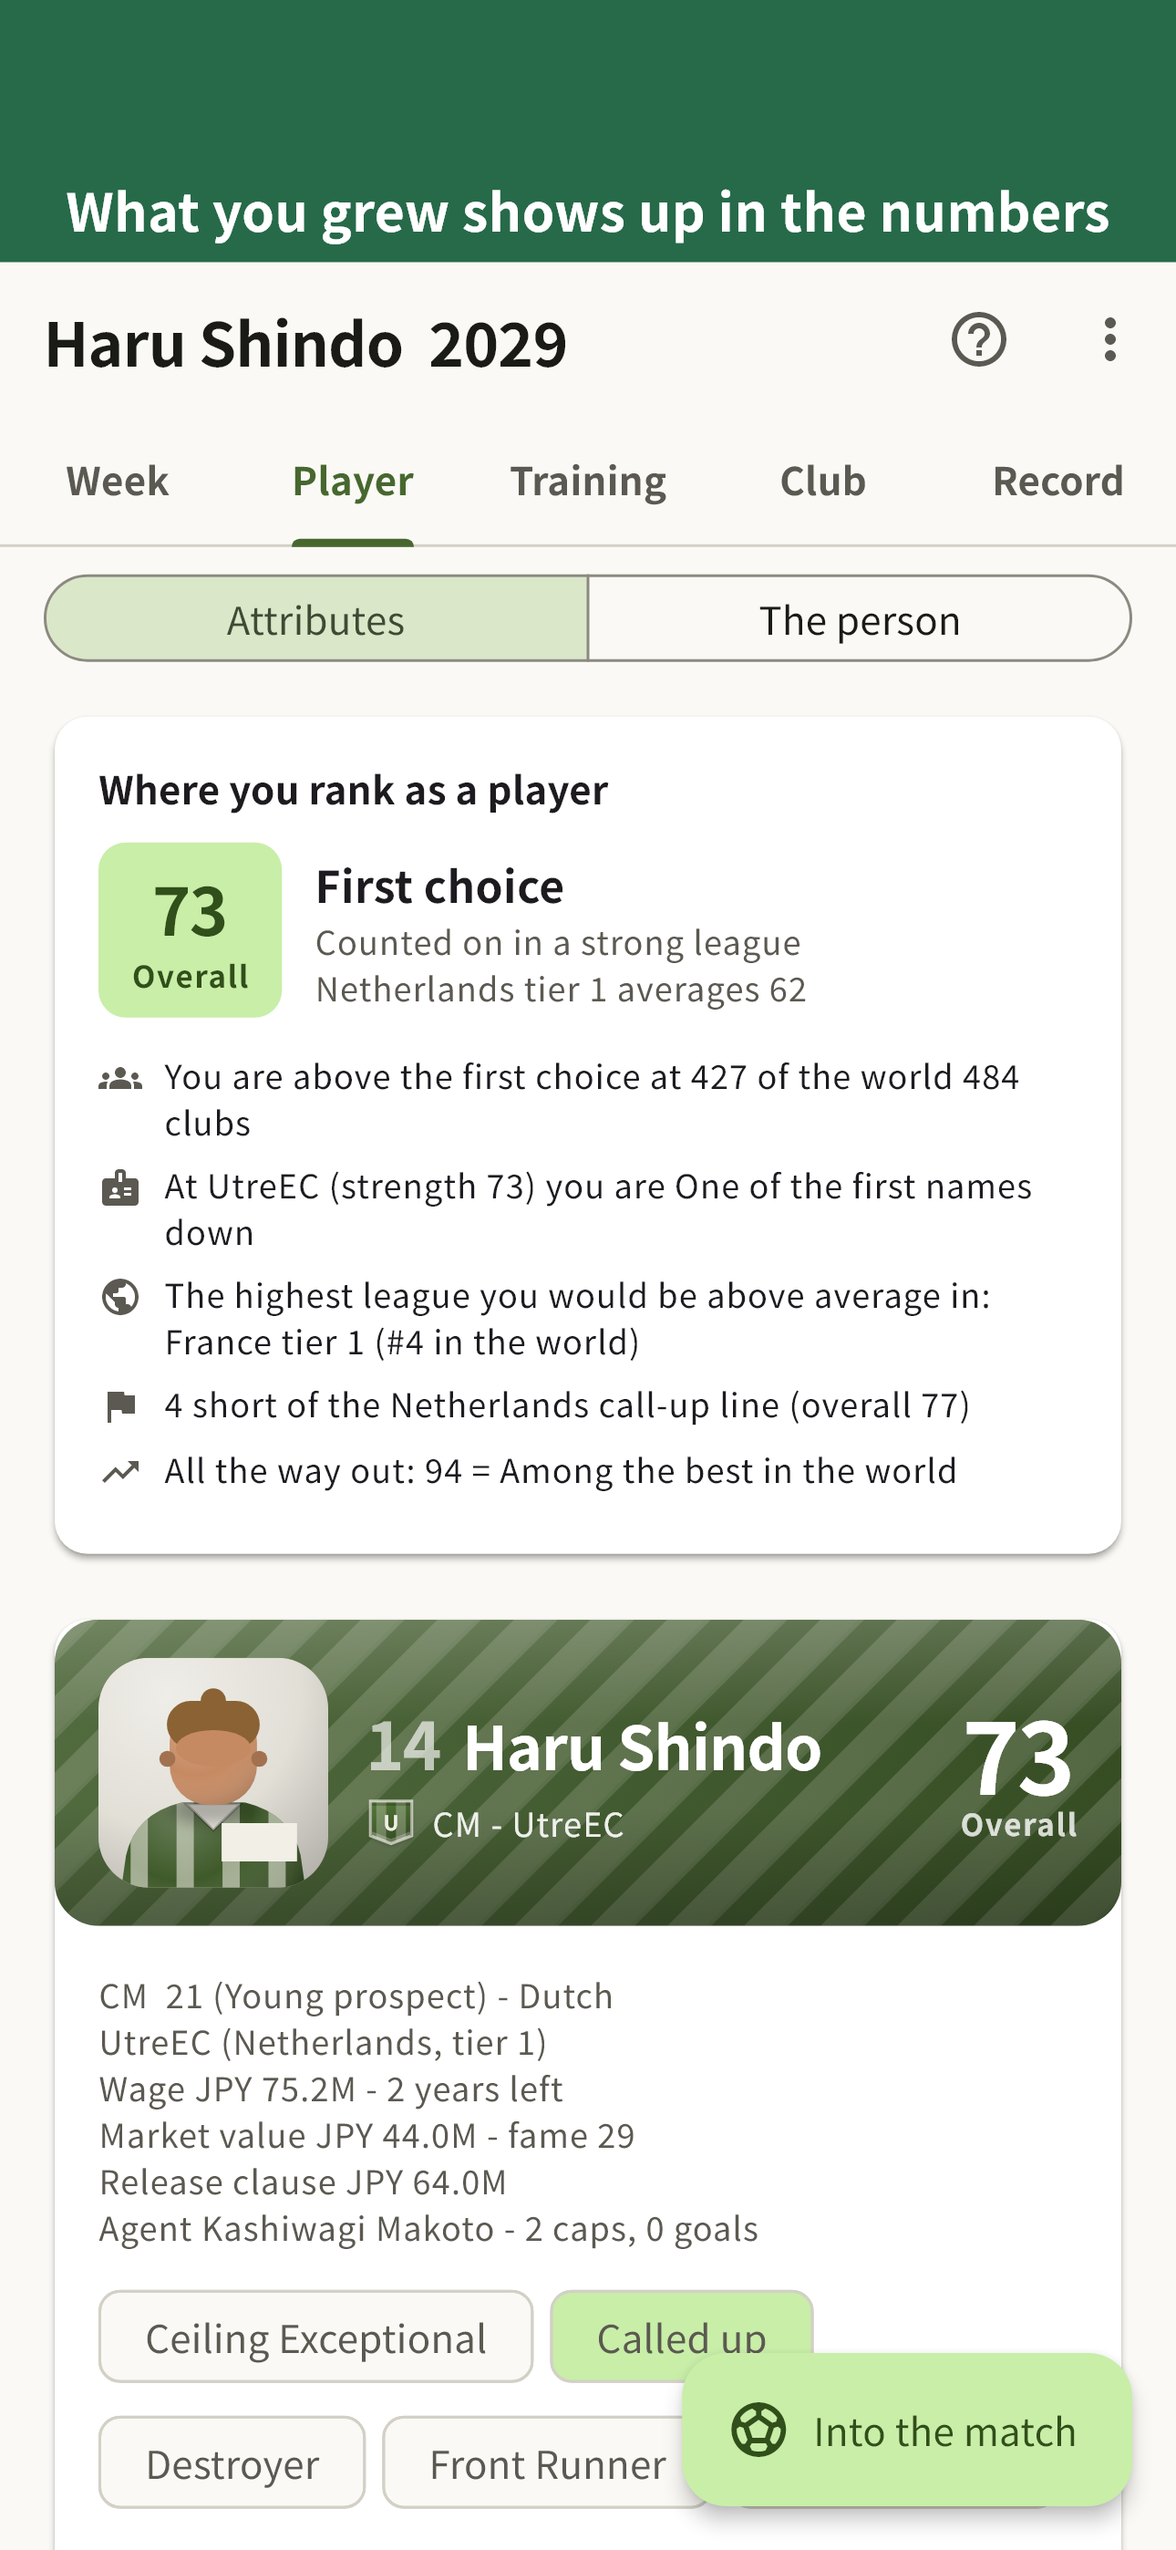
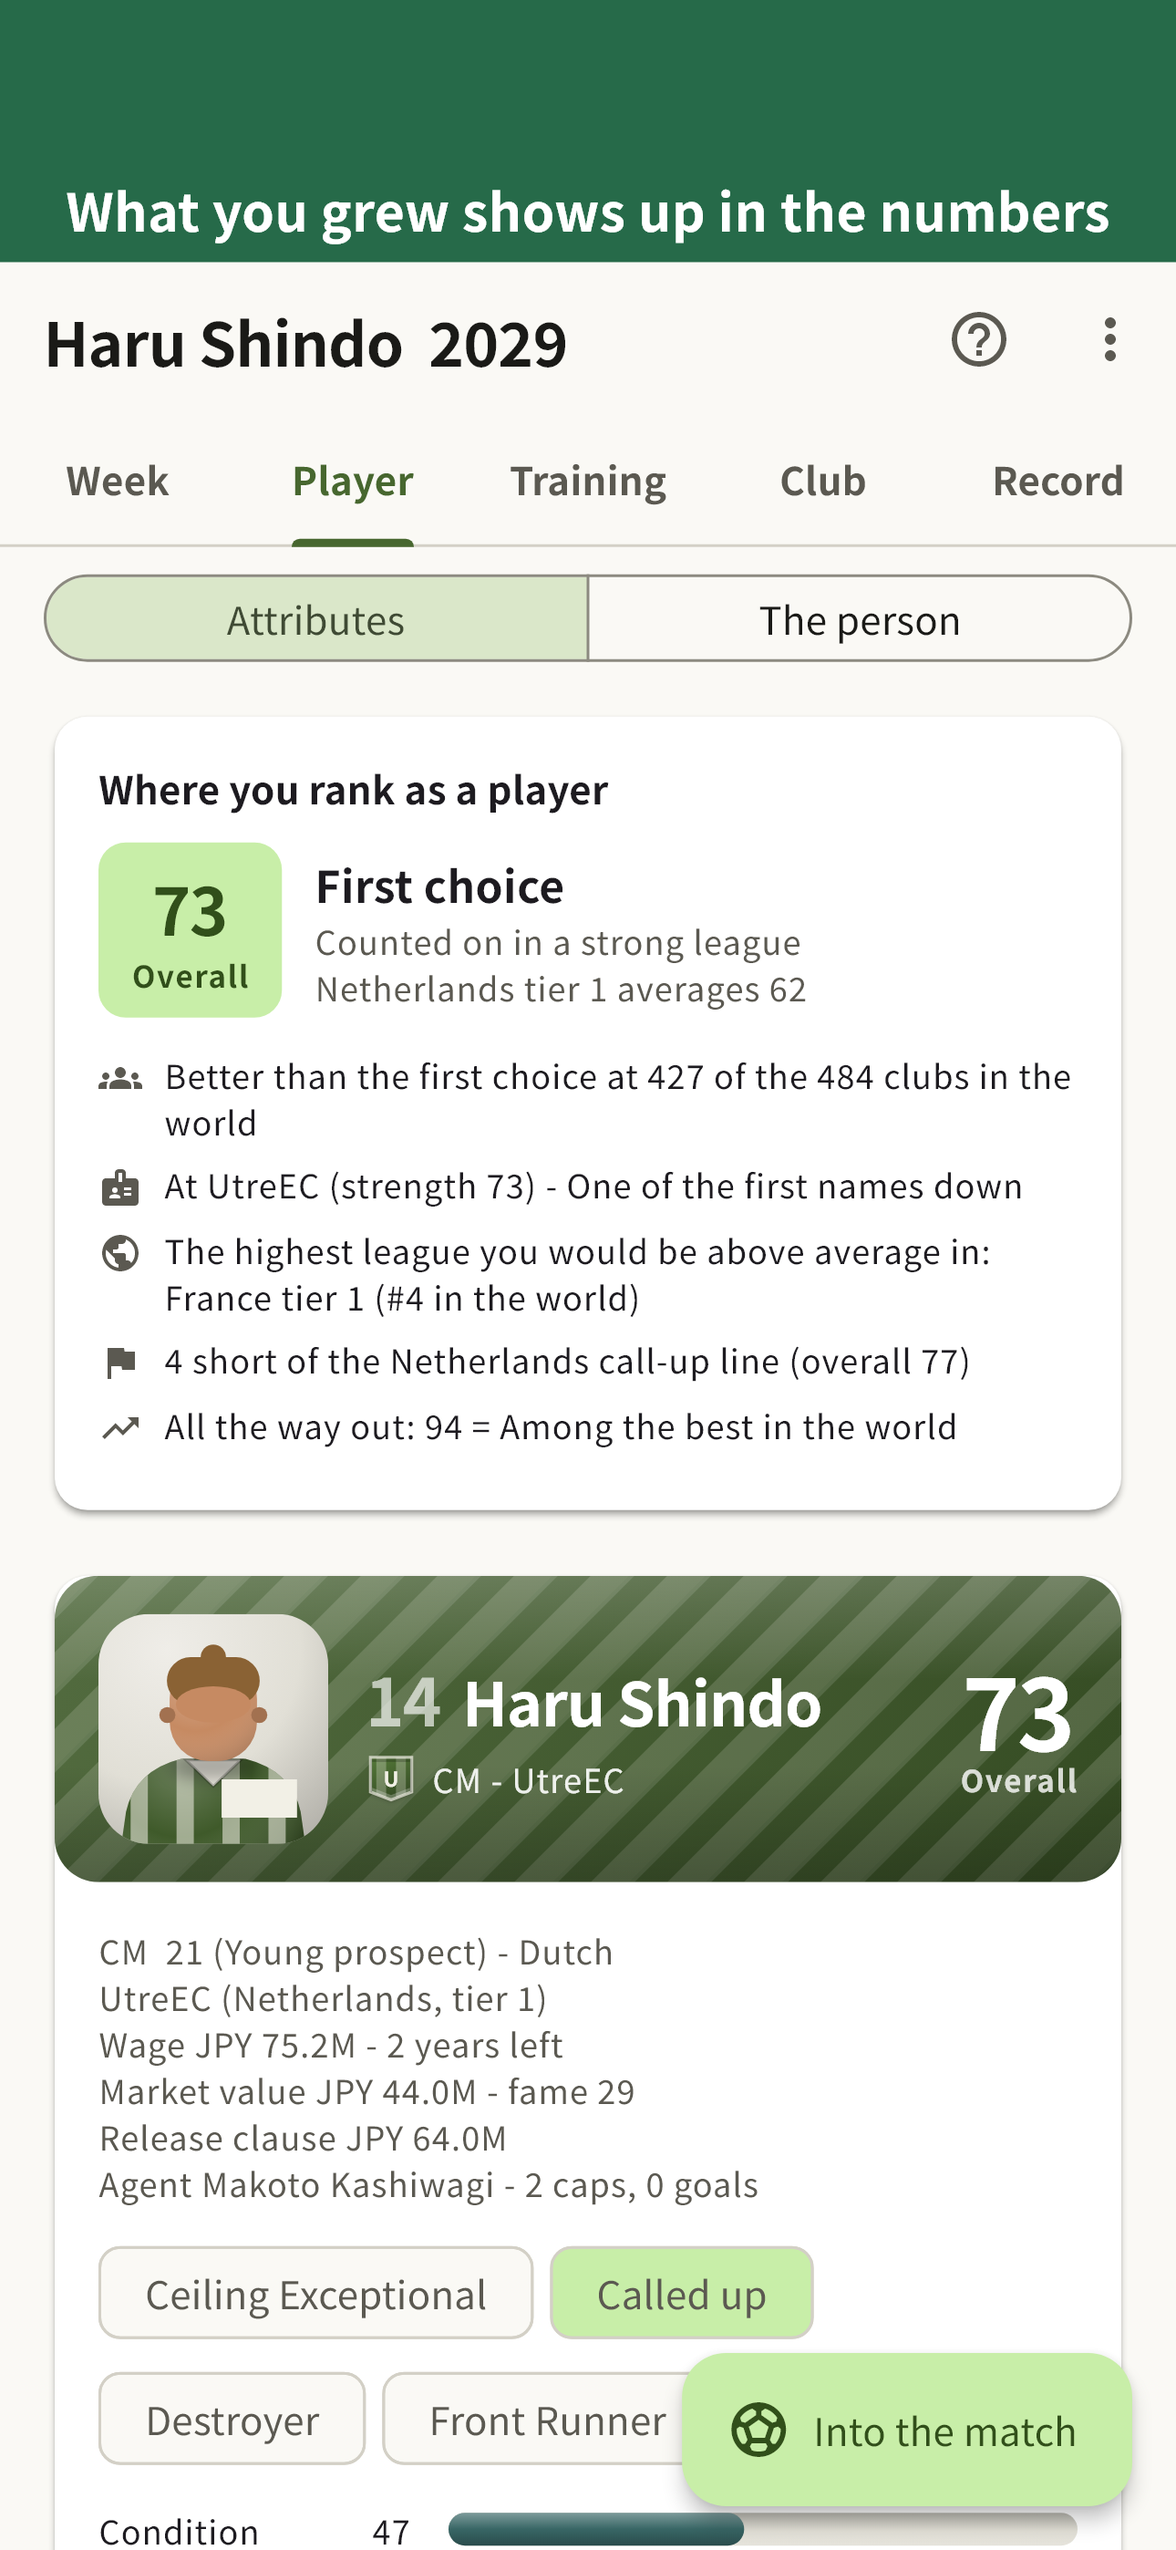
soccer-career: 英語の画面の壊れを15か所直す（1.2.0+7）
貼る前の掲載画像を1枚ずつ開いて見つけた。どれも日本語の画面では
起きないもので、analyze も既存のテストも通っていた。

- 全角の記号が英語の画面に出ていた（11か所）。文字列をつないだ
  ところは tr() を通らないので「／」「（）」「「」」がそのまま出る。
  lang_test に見張りを足したら、自分で見つけた3か所の他に8か所出た
- 文を文の中に埋めていた。standingIn は独立した文を返すので
  「you are Too good for this club. You could go higher」になっていた
- 「of the world 484 clubs」、掲載画像の見出し「What you give this
  week to」（to で終わって文にならない）
- 代理人3人だけ姓が先（Kashiwagi Makoto → Makoto Kashiwagi）
- 札が2行で枠からはみ出す（This country, and the world → Country and world）。
  札を変えたら道具3つの探す字も変える（これで4回目）

ビルド6は TestFlight に上げたあとなので 1.2.0+7 を作り直す。

Changed region(s): [[0.031, 0.4045, 0.9612, 1.0]]

diff --git a/projects/soccer-career/lib/ui/screens/hub_screen.dart b/projects/soccer-career/lib/ui/screens/hub_screen.dart
@@ -1250,7 +1250,7 @@ class _ClubTab extends StatelessWidget {
   Widget build(BuildContext context) => _Sectioned(
     storageId: 'section-club',
     // 見出しで割っていた境目を、そのまま札にした。
-    labels: [tr('立ち位置', 'Where you stand'), tr('この国と、世界', 'This country, and the world')],
+    labels: [tr('立ち位置', 'Where you stand'), tr('この国と、世界', 'Country and world')],
     sections: [
       ListView(
         key: const PageStorageKey('tab-club'),
@@ -2141,7 +2141,8 @@ class _SupportCard extends StatelessWidget {
                 Align(
                   alignment: Alignment.centerLeft,
                   child: Text(
-                    '${kind.label}（${kind.description}）',
+                    tr('${kind.label}（${kind.description}）',
+                        '${kind.label} (${kind.description})'),
                     style: theme.textTheme.labelMedium,
                   ),
                 ),
@@ -3683,13 +3684,13 @@ class _LevelCard extends StatelessWidget {
               icon: Icons.groups,
               text:
                   tr('世界${grade.totalClubs}クラブのうち'
-                  '${grade.starterClubs}クラブの主力を上回っている', 'You are above the first choice at ${grade.starterClubs} of the world ${grade.totalClubs} clubs'),
+                  '${grade.starterClubs}クラブの主力を上回っている', 'Better than the first choice at ${grade.starterClubs} of the ${grade.totalClubs} clubs in the world'),
             ),
             _LevelLine(
               icon: Icons.badge,
               text:
                   tr('${state.club.name}（強さ ${state.club.strength}）では'
-                  '${Ranking.standingIn(player.overall, state.club)}', 'At ${state.club.name} (strength ${state.club.strength}) you are ${Ranking.standingIn(player.overall, state.club)}'),
+                  '${Ranking.standingIn(player.overall, state.club)}', 'At ${state.club.name} (strength ${state.club.strength}) - ${Ranking.standingIn(player.overall, state.club)}'),
             ),
             _LevelLine(
               icon: Icons.public,
@@ -5147,7 +5148,8 @@ class _InjuryCard extends StatelessWidget {
           crossAxisAlignment: CrossAxisAlignment.start,
           children: [
             Text(
-              '${injury.name}（${injury.severity.label}）',
+              tr('${injury.name}（${injury.severity.label}）',
+                  '${injury.name} (${injury.severity.label})'),
               style: theme.textTheme.titleSmall?.copyWith(
                 color: theme.colorScheme.onErrorContainer,
               ),

diff --git a/projects/soccer-career/test/lang_test.dart b/projects/soccer-career/test/lang_test.dart
@@ -434,4 +434,41 @@ void main() {
       );
     });
   });
+
+  group('英語に全角の記号を混ぜない', () {
+    // **区切りの記号も訳す。** `parts.join(' ／ ')` のように文字列を
+    // つないだところは tr() を通らないので、**英語の画面に全角のまま出る**。
+    // `_ja` はかな・漢字しか見ないので、記号だけの文字列は素通りしていた
+    // ——「目標 20 to go ／ Goals 10 to go」「Physical（...）」が
+    // **英語の掲載画像に写っていて、そこで初めて見つかった**（2026-11-22）。
+    //
+    // `、` `。` `／` `（` `）` は `_ja` の範囲（U+3040〜U+30FF、漢字）の
+    // 外にある。日本語の文の中なら正しいので、**かな・漢字を含む文は見ない**。
+    final zenkaku = RegExp(r'[（）／、。「」〜：；！？％]');
+
+    test('訳し終えたファイルに、英語側の全角記号が無い', () {
+      final leaks = <String>[];
+      for (final path in translated) {
+        final s = File(path).readAsStringSync();
+        for (final run in _runs(s)) {
+          final lit = s.substring(run.$1, run.$2);
+          if (!zenkaku.hasMatch(lit)) continue;
+          // かな・漢字があるなら日本語の文。全角で正しい。
+          if (_ja.hasMatch(lit)) continue;
+          // tr( / Say( の直後は日本語側の引数。
+          final before = s.substring(0, run.$1).trimRight();
+          if (before.endsWith('tr(') || before.endsWith('Say(')) continue;
+          final line = s.substring(0, run.$1).split('\n').length;
+          leaks.add('$path:$line  ${lit.replaceAll('\n', ' ')}');
+        }
+      }
+      expect(
+        leaks,
+        isEmpty,
+        reason:
+            '英語の画面に全角の記号が出る:\n${leaks.join('\n')}\n'
+            "区切りも tr(' ／ ', ' / ') のように訳すこと。",
+      );
+    });
+  });
 }

diff --git a/projects/soccer-career/lib/game/match_brief.dart b/projects/soccer-career/lib/game/match_brief.dart
@@ -70,7 +70,11 @@ class MatchBrief {
       // 1枚に収める。長い注釈はクラブタブのカードに任せる。
       lines.add(BriefLine(
         tr('目標', 'Targets'),
-        parts.isEmpty ? tr('3つとも届いている', 'All three are within reach') : parts.join(' ／ '),
+        parts.isEmpty
+            ? tr('3つとも届いている', 'All three are within reach')
+            // **区切りの記号も訳す。** 全角の「／」を英語の画面に
+            // 出したままにしていた（2026-11-22、掲載画像で見つけた）。
+            : parts.join(tr(' ／ ', ' / ')),
         urgent: state.objectiveReach != null,
       ));
     }
@@ -82,7 +86,9 @@ class MatchBrief {
       final short = promise.shortfall(state.seasonStats);
       lines.add(BriefLine(
         tr('約束', 'Promise'),
-        short == null ? tr('${promise.label} — 果たした', '${promise.label} - kept') : '${promise.label}（$short）',
+        short == null
+            ? tr('${promise.label} — 果たした', '${promise.label} - kept')
+            : tr('${promise.label}（$short）', '${promise.label} ($short)'),
         urgent: state.promiseReach != null,
       ));
     }
@@ -102,7 +108,9 @@ class MatchBrief {
 
       final opponent = state.opponentFor(state.matchday);
       final style = ClubStyle.of(opponent);
-      lines.add(BriefLine(tr('相手', 'Opponent'), '${style.label}（${style.description}）'));
+      lines.add(BriefLine(tr('相手', 'Opponent'),
+          tr('${style.label}（${style.description}）',
+              '${style.label} (${style.description})')));
 
       // 自分が出るぶん、クラブがどれだけ強くなるか。判定と同じ式を読む。
       // 1 未満なら出さない（「+0」は情報ではない）。

diff --git a/projects/soccer-career/lib/ui/screens/guide_screen.dart b/projects/soccer-career/lib/ui/screens/guide_screen.dart
@@ -928,7 +928,8 @@ Widget _traitList(BuildContext context) {
       const SizedBox(height: 8),
       _list(context, [
         for (final trait in Trait.strengths)
-          (trait.label, '${trait.description}（${trait.effects.join('、')}）'),
+          (trait.label, tr('${trait.description}（${trait.effects.join('、')}）',
+              '${trait.description} (${trait.effects.join(', ')})')),
       ]),
       const SizedBox(height: 8),
       Text(
@@ -940,7 +941,8 @@ Widget _traitList(BuildContext context) {
       const SizedBox(height: 8),
       _list(context, [
         for (final trait in Trait.flaws)
-          (trait.label, '${trait.description}（${trait.effects.join('、')}）'),
+          (trait.label, tr('${trait.description}（${trait.effects.join('、')}）',
+              '${trait.description} (${trait.effects.join(', ')})')),
       ]),
       const SizedBox(height: 8),
       Text(tr('稀（${Trait.rares.length}種）', 'Rare (${Trait.rares.length})'), style: theme.textTheme.labelLarge),
@@ -958,7 +960,8 @@ Widget _traitList(BuildContext context) {
         for (final trait in Trait.rares)
           (
             trait.flaw ? tr('${trait.label}（欠点）', '${trait.label} (flaw)') : trait.label,
-            '${trait.description}（${trait.effects.join('、')}）',
+            tr('${trait.description}（${trait.effects.join('、')}）',
+                '${trait.description} (${trait.effects.join(', ')})'),
           ),
       ]),
     ],

diff --git a/projects/soccer-career/lib/models/agent.dart b/projects/soccer-career/lib/models/agent.dart
@@ -49,7 +49,7 @@ class Agent {
 
   /// 全員架空。
   static const List<Agent> pool = [
-    Agent(name: Say('柏木 誠', 'Kashiwagi Makoto'), style: Say('堅実', 'Steady'), negotiation: 3, reach: 2, feePercent: 5),
+    Agent(name: Say('柏木 誠', 'Makoto Kashiwagi'), style: Say('堅実', 'Steady'), negotiation: 3, reach: 2, feePercent: 5),
     Agent(
       name: Say('ヴィクトル・ラング', 'Viktor Lang'),
       style: Say('強気', 'Pushy'),
@@ -57,7 +57,7 @@ class Agent {
       reach: 4,
       feePercent: 12,
     ),
-    Agent(name: Say('長谷 由紀', 'Hase Yuki'), style: Say('人脈', 'Contacts'), negotiation: 2, reach: 8, feePercent: 8),
+    Agent(name: Say('長谷 由紀', 'Yuki Hase'), style: Say('人脈', 'Contacts'), negotiation: 2, reach: 8, feePercent: 8),
     Agent(
       name: Say('マルコ・ペレス', 'Marco Perez'),
       style: Say('新人', 'New to it'),
@@ -65,7 +65,7 @@ class Agent {
       reach: 1,
       feePercent: 3,
     ),
-    Agent(name: Say('大塚 玲', 'Otsuka Rei'), style: Say('バランス', 'Balanced'), negotiation: 4, reach: 4, feePercent: 9),
+    Agent(name: Say('大塚 玲', 'Rei Otsuka'), style: Say('バランス', 'Balanced'), negotiation: 4, reach: 4, feePercent: 9),
     Agent(
       name: Say('エレナ・コスタ', 'Elena Costa'),
       style: Say('交渉', 'Negotiating'),

diff --git a/projects/soccer-career/tool/screenshots/capture_test.dart b/projects/soccer-career/tool/screenshots/capture_test.dart
@@ -83,7 +83,7 @@ Map<String, String> get captions => {
   '01-match': tr('サッカー選手の人生を、1試合ずつ選ぶ',
       'A footballer\'s life, one match at a time'),
   '02-create': tr('自分の選手を、ひとりつくる', 'Make a player of your own'),
-  '03-week': tr('今週、何に時間を使うか', 'What you give this week to'),
+  '03-week': tr('今週、何に時間を使うか', 'What you give your week to'),
   '04-player': tr('伸びたところが、数字で残る',
       'What you grew shows up in the numbers'),
   '05-develop': tr('狙った技だけが、身につく',
@@ -475,7 +475,7 @@ Future<void> capture(WidgetTester tester, Device device) async {
     captions['06-world']!,
   );
   await openTab(tester, tr('クラブ', 'Club'),
-      tr('この国と、世界', 'This country, and the world'));
+      tr('この国と、世界', 'Country and world'));
   await dump(tester, device, '06-world');
 
   // シーズンの総括。

diff --git a/projects/soccer-career/test/scroll_sim.dart b/projects/soccer-career/test/scroll_sim.dart
@@ -70,7 +70,7 @@ void main() {
       '${tr('育成', 'Training')}|${tr('今週決める', 'Decide this week')}': 'tab-training',
       '${tr('育成', 'Training')}|${tr('長い目で狙う', 'The long game')}': 'tab-training-aim',
       '${tr('クラブ', 'Club')}|${tr('立ち位置', 'Where you stand')}': 'tab-club',
-      '${tr('クラブ', 'Club')}|${tr('この国と、世界', 'This country, and the world')}': 'tab-club-world',
+      '${tr('クラブ', 'Club')}|${tr('この国と、世界', 'Country and world')}': 'tab-club-world',
       '${tr('記録', 'Record')}|${tr('今季', 'This season')}': 'tab-career',
       '${tr('記録', 'Record')}|${tr('これまで', 'So far')}': 'tab-career-total',
     };

diff --git a/projects/soccer-career/lib/ui/player_banner.dart b/projects/soccer-career/lib/ui/player_banner.dart
@@ -79,7 +79,8 @@ class PlayerBanner extends StatelessWidget {
                     ),
                     if (state.nickname != null)
                       Text(
-                        '「${state.nickname}」',
+                        // 括弧も訳す。英語の画面に「」は出さない。
+                        tr('「${state.nickname}」', '"${state.nickname}"'),
                         style: theme.textTheme.bodySmall?.copyWith(
                           color: onKit.withValues(alpha: 0.8),
                         ),

diff --git a/projects/soccer-career/lib/ui/screens/season_end_screen.dart b/projects/soccer-career/lib/ui/screens/season_end_screen.dart
@@ -109,7 +109,8 @@ class _SeasonEndScreenState extends State<SeasonEndScreen> {
               child: Column(
                 crossAxisAlignment: CrossAxisAlignment.start,
                 children: [
-                  Text('${a.name}（${a.style}）'),
+                  Text(tr('${a.name}（${a.style}）',
+                      '${a.name} (${a.style})')),
                   Text(
                     a.description,
                     style: Theme.of(context).textTheme.bodySmall,

diff --git a/projects/soccer-career/lib/ui/screens/retired_screen.dart b/projects/soccer-career/lib/ui/screens/retired_screen.dart
@@ -74,7 +74,8 @@ class _RetiredScreenState extends State<RetiredScreen> {
               Text(
                 state.nickname == null
                     ? state.player.name
-                    : '${state.player.name}「${state.nickname}」',
+                    : tr('${state.player.name}「${state.nickname}」',
+                        '${state.player.name} "${state.nickname}"'),
                 style: theme.textTheme.headlineSmall,
               ),
               Center(

diff --git a/projects/soccer-career/test/shots.dart b/projects/soccer-career/test/shots.dart
@@ -197,7 +197,7 @@ void main() {
       ]),
       ('クラブ', tr('クラブ', 'Club'), [
         ('立ち位置', tr('立ち位置', 'Where you stand')),
-        ('この国と、世界', tr('この国と、世界', 'This country, and the world')),
+        ('この国と、世界', tr('この国と、世界', 'Country and world')),
       ]),
       ('記録', tr('記録', 'Record'), [
         ('今季', tr('今季', 'This season')),

diff --git a/projects/soccer-career/lib/ui/training_sheet.dart b/projects/soccer-career/lib/ui/training_sheet.dart
@@ -241,7 +241,10 @@ class TrainingSheet {
     final kind = companion.needs;
     if (kind == null) return companion.label;
     final who = state.teammateOf(kind);
-    return who == null ? companion.label : '${companion.label}（${who.name}）';
+    return who == null
+        ? companion.label
+        : tr('${companion.label}（${who.name}）',
+            '${companion.label} (${who.name})');
   }
 }
 
